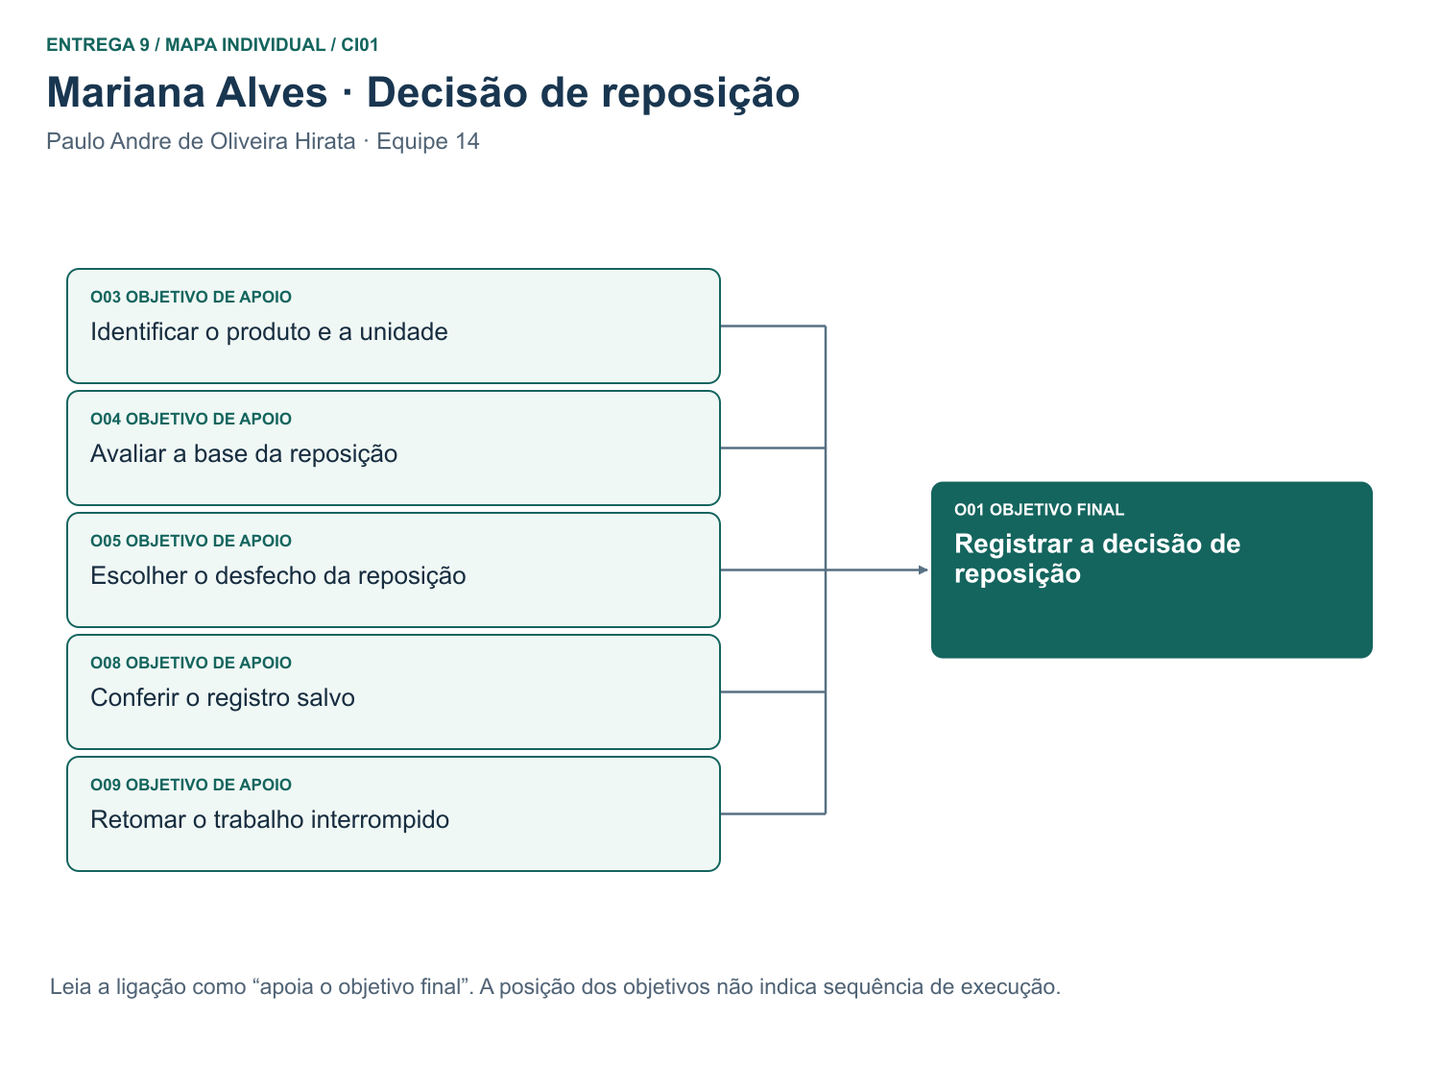
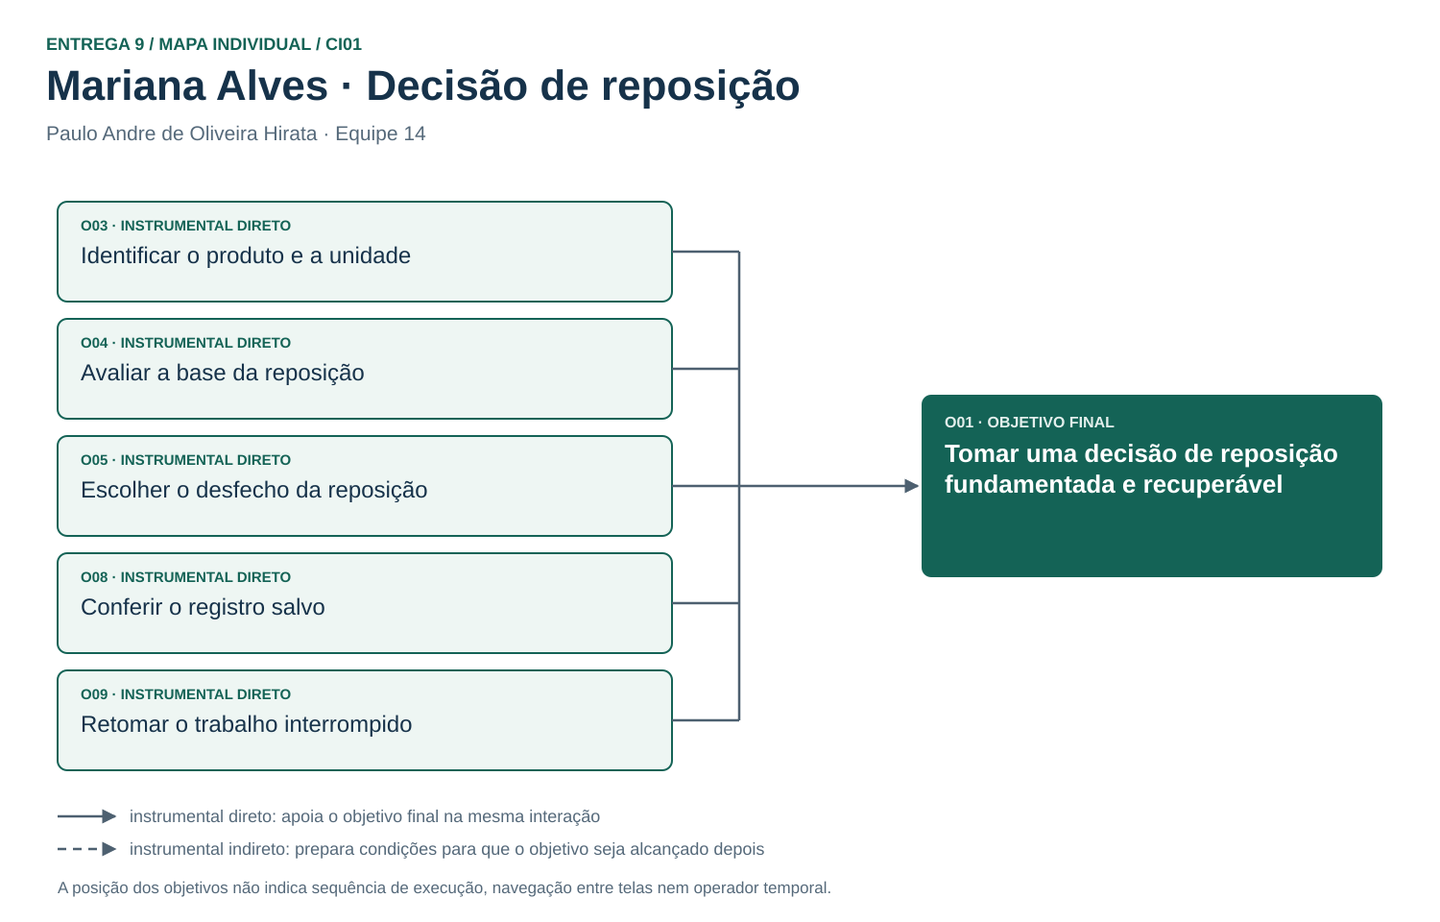
Revisa o mapa de objetivos da Entrega 9 conforme o feedback
- Reformula O01 ("Tomar uma decisão de reposição fundamentada e
  recuperável") e O02 ("Tornar o saldo do item confiável e explicável")
  como objetivos finais, em vez de operações de "registrar".
- Substitui "objetivo de apoio" pela classificação da teoria:
  O03–O09 como instrumentais diretos e O10 como instrumental indireto
  de O01.
- Refaz os três mapas com fonte SVG editável (o mapa_objetivos.svg era
  placeholder) e cria o README de assets que o link da E9 esperava.
- Propaga os novos nomes para E10, E11 e E13.

Claude-Session: https://claude.ai/code/session_01HTyh9THEp8q68sQNbkQiKB

diff --git a/docs/09_modelo_conceitual.md b/docs/09_modelo_conceitual.md
@@ -79,7 +79,7 @@ Mariana confirma que anotou a mesma venda online de dois conjuntos. O pedido foi
 
 | Tópico > subtópico | Falas e signos envolvidos | Intenção/efeito esperado |
 |---|---|---|
-| O01 Registrar a decisão de reposição | **U:** “Preciso decidir sobre a garrafa antes do meio-dia.” **D:** “Vamos conferir o item e a base da decisão.” | Iniciar T01 com a decisão sob controle de Mariana. |
+| O01 Tomar uma decisão de reposição fundamentada e recuperável | **U:** “Preciso decidir sobre a garrafa antes do meio-dia.” **D:** “Vamos conferir o item e a base da decisão.” | Iniciar T01 com a decisão sob controle de Mariana. |
 | > O03 Identificar o produto e a unidade | **U:** “É a garrafa azul de 500 ml, vendida por unidade.” **D:** “A análise é dessa variação.” **Signos:** produto, unidade de venda. | Evitar a associação com outra garrafa. |
 | > O04 Avaliar a base da reposição | **D:** “Há seis garrafas na loja, duas comprometidas e quatro livres. Neste exemplo, a estimativa é vender cinco unidades nos próximos três dias.” **U:** “Cinco é uma previsão de vendas, não a quantidade que preciso comprar.” **Signos:** contagem física, quantidade comprometida, quantidade disponível, vendas confirmadas, horizonte, previsão de demanda, atualização da base. | Distinguir disponibilidade e demanda futura. Cinco unidades e três dias são valores fictícios deste diálogo, não um resultado medido nem horizonte fixo do TCC. |
 | > O04 Entender a ausência de resultado | **D:** “Para este horizonte não há previsão disponível. Posso mostrar as vendas confirmadas e seu período.” **U:** “Então não sei quanto vou vender; não significa que a previsão seja zero.” | Corrigir a ambiguidade observada em E6-P07 sem responsabilizar Mariana por uma seleção já feita. |
@@ -92,7 +92,7 @@ Mariana confirma que anotou a mesma venda online de dois conjuntos. O pedido foi
 
 | Tópico > subtópico | Falas e signos envolvidos | Intenção/efeito esperado |
 |---|---|---|
-| O02 Registrar e comunicar o desfecho da divergência | **U:** “Preciso explicar por que o saldo não bate.” **D:** “Qual item e quais registros você está conferindo?” | Delimitar um episódio, sem iniciar compra nem ajuste automático. |
+| O02 Tornar o saldo do item confiável e explicável | **U:** “Preciso explicar por que o saldo não bate.” **D:** “Qual item e quais registros você está conferindo?” | Delimitar um episódio, sem iniciar compra nem ajuste automático. |
 | > O03 Identificar o produto e a unidade | **U:** “Conjunto de três potes, vendido por conjunto.” **D:** “Saldo registrado: oito conjuntos. Contagem: dez conjuntos.” | Comparar quantidades na mesma unidade comercial. |
 | > O06 Explicar a diferença de saldo | **U:** “Quais linhas podem corresponder a este pedido?” **D:** “Há duas transcrições de uma saída de dois conjuntos. A anotação não tem identificador; a coincidência é um indício.” **Signos:** evidência de origem, situação da evidência. | Separar a suspeita de duplicidade da comprovação de que foi uma única venda. |
 | > O09 Retomar o trabalho interrompido | **U:** “Voltei da embalagem. Já corrigi algo?” **D:** “Ainda não. Você comparou estas linhas; falta confirmar a anotação com Mariana.” | Distinguir investigação em andamento de correção efetivada. |
@@ -103,36 +103,54 @@ Mariana confirma que anotou a mesma venda online de dois conjuntos. O pedido foi
 
 ## 3. Mapa de objetivos
 
-Os mapas representam **para quê** uma pessoa usa o sistema. A ligação indica que um objetivo instrumental apoia um objetivo final; não indica ordem de execução, navegação entre telas ou operador temporal. Os IDs permanecem os mesmos nos mapas individuais e no consolidado.
+Os mapas representam **para quê** uma pessoa usa o sistema, e não a decomposição da tarefa. A classificação segue a teoria da disciplina:
 
-**Paulo — P01 / CI01 / T01.** Identificar o item, avaliar a base, escolher o desfecho, retomar e conferir o que foi salvo apoiam a decisão de Mariana.
+- **Objetivo final** — resultado prático que leva a pessoa a iniciar a conversa com o sistema.
+- **Objetivo instrumental** — meio para alcançar outro objetivo. Pode ser:
+  - **direto**, quando apoia o objetivo durante a mesma interação;
+  - **indireto**, quando prepara condições para que outro objetivo seja alcançado depois.
 
-![Mapa individual de Mariana: O03, O04, O05, O08 e O09 apoiam O01](../assets/09_modelo_conceitual/mapa_ci01.png)
+Seta contínua indica instrumental direto; seta tracejada indica instrumental indireto. A ligação não representa ordem de execução, navegação entre telas nem operador temporal. Os IDs permanecem os mesmos nos mapas individuais e no consolidado.
 
-**Victor — P02 / CI02 / T02.** Identificar o item, explicar a diferença, fundamentar o tratamento, retomar, conferir o registro e comunicar seu alcance apoiam a conferência de Rafael.
+### Revisão após o feedback
 
-![Mapa individual de Rafael: O03, O06, O07, O08, O09 e O10 apoiam O02](../assets/09_modelo_conceitual/mapa_ci02.png)
+Na versão anterior, O01 e O02 começavam por “registrar”, e os demais objetivos estavam agrupados como “objetivos de apoio”. Registrar é uma operação da interface. Por isso, a pergunta foi refeita para cada persona: **para que a pessoa usa o sistema?**
 
-**Consolidação.** “Localizar a garrafa” e “localizar o conjunto” foram reunidos em **O03**: o critério é reconhecer o produto correto na sua unidade. “Ver se a decisão ficou salva” e “ver se a correção foi gravada” compartilham **O08**, mas cada registro mantém seu desfecho próprio. A recuperação após uma pausa é **O09** nos dois casos. Já **O04** e **O06** ficam separados: interpretar uma estimativa não prova a origem de uma divergência. O resultado de uma conferência pode apoiar uma reposição futura do mesmo item; não há dependência obrigatória entre os dois episódios fictícios.
+- **O01 — Mariana.** Ela não quer “registrar” por si só. Quer decidir a reposição com base em disponibilidade, procura, prazo e caixa e depois conseguir recuperar essa decisão. A própria abertura do diálogo confirma isso: “Preciso decidir sobre a garrafa antes do meio-dia.” O registro passou a ser o meio que torna a decisão recuperável (O08).
+- **O02 — Rafael.** Ele não quer apenas registrar e comunicar. Quer que o saldo do item volte a ser confiável e que a diferença possa ser explicada. Isso vale tanto para a correção quanto para a pendência. A abertura é “Preciso explicar por que o saldo não bate”. Comunicar o alcance a Mariana deixou de fazer parte do objetivo final e virou um instrumental indireto (O10). A comunicação acontece fora do sistema e prepara a próxima decisão de reposição.
 
-![Mapa consolidado dos objetivos de Mariana e Rafael, com os objetivos comuns representados uma única vez](../assets/09_modelo_conceitual/mapa_objetivos.png)
+Cada elemento restante passou pelo teste sugerido no feedback: *ele expressa um resultado que o usuário deseja alcançar ou apenas uma etapa necessária para executar a tarefa?* Etapas como “revisar antes de confirmar” e “registrar o rascunho” continuam na HTA da E5 e não viraram objetivos. Foram mantidos apenas os resultados que a pessoa reconhece como algo que precisa obter: o item certo, uma base compreendida, uma escolha, uma explicação, uma justificativa, a certeza do que ficou salvo e a continuidade após a pausa.
 
-[Versões vetoriais dos três mapas](../assets/09_modelo_conceitual/README.md).
+**Paulo — P01 / CI01 / T01.** Cinco instrumentais diretos apoiam O01.
+
+![Mapa individual de Mariana: O03, O04, O05, O08 e O09 são instrumentais diretos de O01](../assets/09_modelo_conceitual/mapa_ci01.png)
+
+**Victor — P02 / CI02 / T02.** Cinco instrumentais diretos apoiam O02. O10 é instrumental indireto de O01, o objetivo de Mariana no próximo ciclo.
+
+![Mapa individual de Rafael: O03, O06, O07, O08 e O09 são instrumentais diretos de O02; O10 é instrumental indireto de O01](../assets/09_modelo_conceitual/mapa_ci02.png)
+
+**Consolidação.** “Localizar a garrafa” e “localizar o conjunto” foram reunidos em **O03**: o critério é reconhecer o produto correto na sua unidade. “Ver se a decisão ficou salva” e “ver se a correção foi gravada” compartilham **O08**, mas cada registro mantém seu desfecho próprio. A recuperação após uma pausa é **O09** nos dois casos. Já **O04** e **O06** ficam separados: interpretar uma estimativa não prova a origem de uma divergência. A única ligação entre os dois papéis é **O10 → O01**: o resultado de uma conferência pode apoiar uma reposição futura do mesmo item, sem dependência obrigatória entre os dois episódios fictícios.
+
+![Mapa consolidado: O01 e O02 como objetivos finais; O03, O08 e O09 comuns; O04 e O05 apoiam O01; O06 e O07 apoiam O02; O10 é indireto de O01](../assets/09_modelo_conceitual/mapa_objetivos.png)
+
+[Fontes SVG editáveis dos três mapas](../assets/09_modelo_conceitual/README.md).
 
 ### Dicionário de objetivos
 
-| ID | Objetivo | Persona(s) | Cenário(s) | Prioridade |
-|---|---|---|---|---|
-| O01 | Registrar a decisão de reposição — final: planejamento, adiamento ou pendência conferido para um item | P01 | CI01 | Essencial — resultado de T01 |
-| O02 | Registrar e comunicar o desfecho da divergência — final: correção ou pendência explicada, com alcance definido | P02; P01 recebe o resultado | CI02 | Essencial — resultado de T02 |
-| O03 | Identificar o produto e a unidade | P01, P02 | CI01, CI02 | Essencial — evita trabalhar sobre o item errado |
-| O04 | Avaliar a base da reposição | P01 | CI01 | Essencial — disponibilidade, procura, prazo e limites |
-| O05 | Escolher o desfecho da reposição | P01 | CI01 | Essencial — preserva a decisão comercial |
-| O06 | Explicar a diferença de saldo | P02 | CI02 | Essencial — identificar causa ou reconhecer lacuna |
-| O07 | Fundamentar correção ou pendência | P02 | CI02 | Essencial — impede ajuste sem causa e autorização |
-| O08 | Conferir o registro salvo | P01, P02 | CI01, CI02 | Essencial — condição de término |
-| O09 | Retomar o trabalho interrompido | P01, P02 | CI01, CI02 | Essencial quando houver pausa — E8-MU07 |
-| O10 | Comunicar o alcance da conferência | P02 comunica; P01 recebe | CI02 | Essencial — evita anunciar fechamento global |
+| ID | Objetivo | Classificação | Persona(s) | Cenário(s) | Justificativa da classificação |
+|---|---|---|---|---|---|
+| O01 | Tomar uma decisão de reposição fundamentada e recuperável | **Final** | P01 | CI01 | É o que leva Mariana ao sistema. Termina com planejamento, adiamento ou pendência conferidos para um item. Não inclui enviar o pedido ao fornecedor. |
+| O02 | Tornar o saldo do item confiável e explicável | **Final** | P02; P01 depende do resultado | CI02 | É o que leva Rafael ao sistema. Termina com uma correção fundamentada ou com uma pendência explicada. Em ambos os casos, o saldo deixa de ser uma incógnita. |
+| O03 | Identificar o produto e a unidade | Instrumental **direto** de O01 e O02 | P01, P02 | CI01, CI02 | Sem o item e a unidade corretos, nada do que se decide ou corrige na mesma conversa tem validade. |
+| O04 | Avaliar a base da reposição | Instrumental **direto** de O01 | P01 | CI01 | É o que torna a decisão **fundamentada**: disponibilidade, procura, previsão, prazo e limites, avaliados durante a própria análise. |
+| O05 | Escolher o desfecho da reposição | Instrumental **direto** de O01 | P01 | CI01 | Concretiza a decisão como planejar, adiar ou deixar pendente. Preserva a decisão comercial com Mariana. |
+| O06 | Explicar a diferença de saldo | Instrumental **direto** de O02 | P02 | CI02 | Torna o saldo **explicável**: identifica a causa ou reconhece a lacuna antes de qualquer alteração. |
+| O07 | Fundamentar correção ou pendência | Instrumental **direto** de O02 | P02 | CI02 | Torna o saldo **confiável**: impede ajuste sem causa confirmada e sem autorização. |
+| O08 | Conferir o registro salvo | Instrumental **direto** de O01 e O02 | P01, P02 | CI01, CI02 | Torna a decisão **recuperável** e a correção verificável. É a condição de término de ambas as conversas. |
+| O09 | Retomar o trabalho interrompido | Instrumental **direto** de O01 e O02, quando houver pausa | P01, P02 | CI01, CI02 | Garante a continuidade do mesmo episódio sem repetir uma gravação. Não existe sem interrupção. Ver E8-MU07. |
+| O10 | Comunicar o alcance da conferência | Instrumental **indireto** de O01 | P02 comunica; P01 recebe | CI02 | Ocorre depois da conversa e fora do sistema. Não conclui O02. Prepara a próxima decisão de reposição de Mariana com um saldo cujo alcance é conhecido. O sistema apenas fornece o resumo. |
+
+**Observação sobre pendências.** Quando O05 ou O07 terminam em pendência, o registro também prepara uma decisão posterior, que é um efeito indireto. A classificação de O05 e O07 continua **direta**, porque o papel principal de cada um é concluir O01 ou O02 na própria conversa. Uma pendência conferida também satisfaz o objetivo final.
 
 ## 4. Esquema conceitual de signos
 

diff --git a/docs/10_molic.md b/docs/10_molic.md
@@ -23,11 +23,11 @@ Exemplos de conversas:
 
 Modele também rupturas plausíveis: entrada inválida, falha de processamento, ausência de resultado, permissão insuficiente, filtro sem resultados, conflito de alteração, cancelamento ou necessidade de recuperação.
 
-## M01 — Registrar a decisão de reposição de um item
+## M01 — Decidir a reposição de um item
 
 **Autor(a):** Paulo Andre de Oliveira Hirata — 22.125.072-3.  
 **Cenário de interação de origem:** CI01 — Decidir a reposição da garrafa antes do prazo do fornecedor (E4-C01 / R04-01).  
-**Objetivo(s):** O01 — Registrar a decisão de reposição. Objetivos de apoio: O03 — Identificar o produto e a unidade; O04 — Avaliar a base da reposição; O05 — Escolher o desfecho da reposição; O08 — Conferir o registro salvo; O09 — Retomar o trabalho interrompido.  
+**Objetivo(s):** objetivo final O01 — Tomar uma decisão de reposição fundamentada e recuperável. Instrumentais diretos: O03 — Identificar o produto e a unidade; O04 — Avaliar a base da reposição; O05 — Escolher o desfecho da reposição; O08 — Conferir o registro salvo; O09 — Retomar o trabalho interrompido. Classificação conforme o [mapa revisado da E9](09_modelo_conceitual.md#3-mapa-de-objetivos).  
 **Tarefa(s) relacionada(s):** Mariana Alves, proprietária; T01 — analisar um produto e registrar uma decisão de reposição.  
 **Signos relevantes:** produto, unidade de venda, contagem física, quantidade comprometida, quantidade disponível, vendas confirmadas, atualização da base, horizonte, previsão de demanda, sugestão de reposição, prazo do fornecedor, desfecho da reposição, quantidade planejada, motivo, próxima verificação, ponto de retomada e estado do registro.
 
@@ -76,11 +76,11 @@ A conversa começa quando Mariana identifica a garrafa e termina quando confere 
 - [ ] O MoLIC representa a conversa usuário–sistema, não o fluxo interno do algoritmo.
 - [ ] Processamento, filtros, administração, relatórios e históricos incluem retornos/rupturas quando relevantes.
 
-## M02 — Registrar e comunicar o desfecho de uma divergência
+## M02 — Explicar a diferença no saldo de um item
 
 **Autor(a):** Victor Merker Binda — 22.125.075-6.  
 **Cenário de interação de origem:** CI02 — Explicar a diferença no saldo dos conjuntos de potes (E4-C02 / R04-02).  
-**Objetivo(s):** O02 — Registrar e comunicar o desfecho da divergência. Objetivos de apoio: O03 — Identificar o produto e a unidade; O06 — Explicar a diferença de saldo; O07 — Fundamentar correção ou pendência; O08 — Conferir o registro salvo; O09 — Retomar o trabalho interrompido; O10 — Comunicar o alcance da conferência.  
+**Objetivo(s):** objetivo final O02 — Tornar o saldo do item confiável e explicável. Instrumentais diretos: O03 — Identificar o produto e a unidade; O06 — Explicar a diferença de saldo; O07 — Fundamentar correção ou pendência; O08 — Conferir o registro salvo; O09 — Retomar o trabalho interrompido. Instrumental indireto: O10 — Comunicar o alcance da conferência, que prepara O01 de Mariana. Classificação conforme o [mapa revisado da E9](09_modelo_conceitual.md#3-mapa-de-objetivos).  
 **Tarefa(s) relacionada(s):** Rafael Costa, auxiliar operacional; T02 — investigar a divergência de um item e registrar seu desfecho. Mariana é fonte externa e destinatária do resultado, não uma segunda voz do sistema.  
 **Signos relevantes:** produto, unidade de venda, saldo registrado, contagem física, evidência de origem, situação da evidência, correção da transcrição, desfecho da conferência, motivo, próxima verificação, ponto de retomada, estado do registro, responsável e data, alcance da conferência.
 
@@ -135,8 +135,8 @@ O diagrama acompanha um único episódio: Rafael investiga a diferença, registr
 
 | Objetivo | MoLIC que cobre | Lacunas/duplicidades | Decisão |
 |---|---|---|---|
-| O01 · Registrar a decisão de reposição | M01 | Previsão salva não é decisão salva. | Encerrar após Mariana conferir o desfecho do item; não enviar pedido. |
-| O02 · Registrar e comunicar o desfecho da divergência | M02 | Saldo igual à contagem não explica a causa. | Exigir justificativa, estado salvo e alcance antes de comunicar. |
+| O01 · Tomar uma decisão de reposição fundamentada e recuperável (final) | M01 | Previsão salva não é decisão salva. | Encerrar após Mariana conferir o desfecho do item; não enviar pedido. |
+| O02 · Tornar o saldo do item confiável e explicável (final) | M02 | Saldo igual à contagem não explica a causa. | Exigir justificativa, estado salvo e alcance antes de comunicar. |
 | O03 · Identificar o produto e a unidade | Ambos | Mesmo conceito; itens e unidades diferentes. | Reutilizar o padrão de identificação, sem ligar os episódios entre si. |
 | O04 · Avaliar a base da reposição | M01 | Confundir ausência, zero, demanda e sugestão mudaria a decisão. | Explicitar parcelas, período, horizonte e limitações. |
 | O05 · Escolher o desfecho da reposição | M01 | Quantidade obrigatória em todos os casos induziria uma compra. | Pedir quantidade apenas para planejar; pedir próxima verificação quando pendente. |

diff --git a/docs/11_figma.md b/docs/11_figma.md
@@ -42,8 +42,8 @@ Quando aplicável, considere: vazio/sem dados; carregamento/processamento; suces
 
 | MoLIC | Objetivo | Fluxo/telas no Figma | Estados de erro/recuperação | Responsável |
 |---|---|---|---|---|
-| M01 · Mariana | O01, com apoio de O03, O04, O05, O08 e O09 | F01 → F02 → F03 → F04 → F05 → F05S. A decisão sobre a quantidade pertence a Mariana. A confirmação salva o planejamento interno. | F02P retoma a análise. F02B trata falta de previsão. F04E permite corrigir a quantidade. F05A e F05P abrem revisão de adiamento e pendência. F06E e F06R tratam a gravação incerta ou malsucedida. | Paulo Andre de Oliveira Hirata |
-| M02 · Rafael | O02, com apoio de O03, O06, O07, O08, O09 e O10 | F01 → F10 → F11 → F12 → F13. Rafael compara duas fontes, confirma a duplicidade e confere o saldo corrigido de 10 conjuntos. O resumo apoia a comunicação presencial com Mariana. | F10P guarda o ponto de retomada. F12P e F12N preservam o saldo 8 quando faltam evidência ou autorização. F12E e F12F permitem consultar o resultado ou recuperar a correção. | Victor Merker Binda |
+| M01 · Mariana | O01 (final); instrumentais diretos O03, O04, O05, O08 e O09 | F01 → F02 → F03 → F04 → F05 → F05S. A decisão sobre a quantidade pertence a Mariana. A confirmação salva o planejamento interno. | F02P retoma a análise. F02B trata falta de previsão. F04E permite corrigir a quantidade. F05A e F05P abrem revisão de adiamento e pendência. F06E e F06R tratam a gravação incerta ou malsucedida. | Paulo Andre de Oliveira Hirata |
+| M02 · Rafael | O02 (final); instrumentais diretos O03, O06, O07, O08 e O09; O10, instrumental indireto de O01 | F01 → F10 → F11 → F12 → F13. Rafael compara duas fontes, confirma a duplicidade e confere o saldo corrigido de 10 conjuntos. O resumo apoia a comunicação presencial com Mariana. | F10P guarda o ponto de retomada. F12P e F12N preservam o saldo 8 quando faltam evidência ou autorização. F12E e F12F permitem consultar o resultado ou recuperar a correção. | Victor Merker Binda |
 
 ## Catálogo de telas/estados
 

diff --git a/docs/13_avaliacao_heuristica.md b/docs/13_avaliacao_heuristica.md
@@ -39,7 +39,7 @@ O escopo é a navegação simulada do Figma. Filtros combinados, exportações, 
 |---|---|
 | Versão avaliada | Versão de referência da Entrega 11, de 11/11/2026. Usar a mesma versão nas duas fichas. [Abrir apresentação](https://www.figma.com/proto/jgB0Bk5BLQ3XM2W9tgZDmd/Estoque-Inteligente?page-id=0%3A1&node-id=2-2&starting-point-node-id=2%3A2&scaling=scale-down) |
 | Telas/estados | 28 quadros no inventário abaixo. Os links abrem cada quadro no arquivo de design para localizar evidências. Percorrer as ações em modo de apresentação. |
-| Fluxos | M01/T01/O01 — registrar a decisão de reposição de Mariana. M02/T02/O02 — investigar e comunicar o desfecho de uma divergência de Rafael. Ambos retomam as personas da Entrega 3, os cenários da Entrega 4, a análise de tarefas da Entrega 5 e os signos e modelos das Entregas 9 e 10. |
+| Fluxos | M01/T01/O01 — Mariana toma uma decisão de reposição fundamentada e recuperável. M02/T02/O02 — Rafael investiga a divergência para tornar o saldo do item confiável e explicável. Ambos retomam as personas da Entrega 3, os cenários da Entrega 4, a análise de tarefas da Entrega 5 e os signos e modelos das Entregas 9 e 10. |
 | Dispositivo/viewport | Previsto notebook com navegador e mouse. Os quadros têm 1280 × 780 px. No dia da inspeção, registrar na ficha o navegador, a área efetivamente disponível e o zoom usados. |
 | Avaliadores | A01 — Paulo Andre de Oliveira Hirata. A02 — Victor Merker Binda. Cada um examinará M01 e M02 individualmente. |
 

diff --git a/assets/09_modelo_conceitual/README.md b/assets/09_modelo_conceitual/README.md
@@ -1,0 +1,13 @@
+# Mapas de objetivos — Entrega 9
+
+| Mapa | Fonte editável | Imagem |
+|---|---|---|
+| Individual CI01 — Mariana (Paulo) | [mapa_ci01.svg](mapa_ci01.svg) | [mapa_ci01.png](mapa_ci01.png) |
+| Individual CI02 — Rafael (Victor) | [mapa_ci02.svg](mapa_ci02.svg) | [mapa_ci02.png](mapa_ci02.png) |
+| Consolidado | [mapa_objetivos.svg](mapa_objetivos.svg) | [mapa_objetivos.png](mapa_objetivos.png) |
+
+Os SVGs são a fonte: textos, caixas e setas podem ser editados em qualquer editor vetorial. As imagens PNG foram exportadas a partir deles (`rsvg-convert arquivo.svg -o arquivo.png`).
+
+**Notação.** Caixa preenchida: objetivo final. Caixa clara com borda contínua: objetivo instrumental direto. Caixa com borda tracejada: objetivo instrumental indireto. Seta contínua: apoia o objetivo final na mesma interação. Seta tracejada: prepara condições para que o objetivo seja alcançado depois.
+
+**Revisão de 25/11/2026.** Os mapas foram refeitos após o feedback da Entrega 9. “Objetivo de apoio” foi substituído pela classificação final, instrumental direto e instrumental indireto. O01 e O02 foram reformulados como resultados práticos. O antigo `mapa_objetivos.svg` era um placeholder do template e foi substituído pela fonte real.
